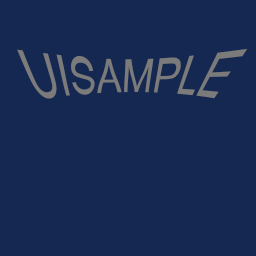
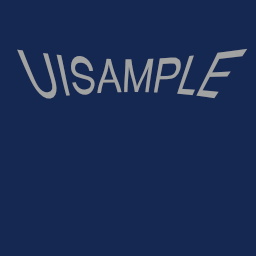
パレット合わせ

Changed region(s): [[0.0625, 0.1875, 0.9688, 0.4062]]

diff --git a/samples/DQ/title/__init__.py b/samples/DQ/title/__init__.py
@@ -18,8 +18,7 @@ class Title:
         start.ui_init(self.template)
         speed.ui_init(self.template)
 
-        self.img = pyxel.Image(256, 256)
-        self.img.load(x=0, y=0, filename="assets/images/title.png")
+        self.img = pyxel.Image.from_image(filename="assets/images/title.png")
 
     def __del__(self):
         # XMLの解放
